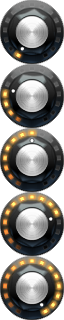
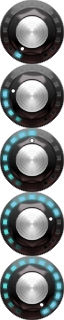
custom web-components + serveur web [1. cmd: npm install express // 2. cmd: node server.js // localhost:8082]

diff --git a/index.html b/index.html
@@ -29,7 +29,8 @@
 
 
     <div id="bcqd">
-      <div id="mainBackground" class="center">
+    
+    <div id="mainBackground" class="center">
 
         <div class="divPlayer">
 
@@ -58,7 +59,7 @@
   
               <div class="ggg2">
                       <div class="middlePlat1"> 
-                       <webaudio-slider src="img/vsliderbody.png" knobsrc="img/vsliderknob.png" basewidth="24" baseheight="128" knobwidth="24" knobheight="24" ditchLength="100" tooltip="Slider-L" min="0" max="4" step="0.01" value="1" id="speedSoundSlider"></webaudio-slider>
+                      <webaudio-knob id="speedSoundSlider" src="img/slider_knobman.png" sprites="30" min="0" max="4" step="0.01" value="1" width="50" height="128"></webaudio-knob>
                           <p class="textPg">Vitesse 1</p>
                       </div>
 
@@ -84,28 +85,29 @@
   <div class="divPlayerMd">
 
           <div class="divPlayerMpart1">
-                <webaudio-knob src="img/LittlePhatty.png" sprites="100" name="rangeInput" value="0" step="1" min="-40" max="30" id="trebEq" diameter="48"></webaudio-knob><p>Treble</p>
+                <webaudio-knob src="img/filtate_2.png" sprites="30" name="rangeInput" value="0" step="1" min="-40" max="30" id="trebEq" diameter="48"></webaudio-knob><p>Treble</p>
 
-                <webaudio-knob src="img/LittlePhatty.png" sprites="100" name="rangeInput" value="0" step="1" min="-40" max="30" id="medEq" diameter="48"></webaudio-knob><p>Medium</p>
+                <webaudio-knob src="img/filtate_2.png" sprites="30" name="rangeInput" value="0" step="1" min="-40" max="30" id="medEq" diameter="48"></webaudio-knob><p>Medium</p>
                 
-                <webaudio-knob src="img/LittlePhatty.png" sprites="100" name="rangeInput" value="0" step="1" min="-40" max="30" id="lowEq" diameter="48"></webaudio-knob><p>Basse</p>
-               
-                <webaudio-slider src="img/vsliderbody.png" knobsrc="img/vsliderknob.png" basewidth="24" baseheight="128" knobwidth="24" knobheight="24" ditchLength="100" tooltip="Slider-L" id="gainSlider" name="rangeInput" min="0" max="4" step="0.01" value="2"></webaudio-slider>
+                <webaudio-knob src="img/filtate_2.png" sprites="30" name="rangeInput" value="0" step="1" min="-40" max="30" id="lowEq" diameter="48"></webaudio-knob><p>Basse</p>
+                
+                <webaudio-knob id="gainSlider" src="img/slider_knobman2.png" sprites="30" min="0" max="4" step="0.01" value="2" width="24" height="100"></webaudio-knob>
           </div>
 
           <div class="divPlayerMpart1">
-                <webaudio-knob src="img/LittlePhatty.png" sprites="100" name="rangeInput" value="0" step="1" min="-40" max="30" id="trebEq2" diameter="48"></webaudio-knob><p>Treble</p>
+                <webaudio-knob src="img/filtate_2.png" sprites="30" name="rangeInput" value="0" step="1" min="-40" max="30" id="trebEq2" diameter="48"></webaudio-knob><p>Treble</p>
 
-                <webaudio-knob src="img/LittlePhatty.png" sprites="100" name="rangeInput" value="0" step="1" min="-40" max="30" id="medEq2" diameter="48"></webaudio-knob><p>Medium</p>   
+                <webaudio-knob src="img/filtate_2.png" sprites="30" name="rangeInput" value="0" step="1" min="-40" max="30" id="medEq2" diameter="48"></webaudio-knob><p>Medium</p>   
 
-                <webaudio-knob src="img/LittlePhatty.png" sprites="100" name="rangeInput" value="0" step="1" min="-40" max="30" id="lowEq2" diameter="48"></webaudio-knob><p>Basse</p>   
+                <webaudio-knob src="img/filtate_2.png" sprites="30" name="rangeInput" value="0" step="1" min="-40" max="30" id="lowEq2" diameter="48"></webaudio-knob><p>Basse</p>   
 
-                <webaudio-slider src="img/vsliderbody.png" knobsrc="img/vsliderknob.png" basewidth="24" baseheight="128" knobwidth="24" knobheight="24" ditchLength="100" tooltip="Slider-L" id="gainSlider2" name="rangeInput" min="0" max="4" step="0.01" value="2"></webaudio-slider>
+                <webaudio-knob id="gainSlider2" src="img/slider_knobman2.png" sprites="30" min="0" max="4" step="0.01" value="2" width="24" height="100"></webaudio-knob>
           </div>
 
 
           <div class="divCrossF" style="vertical-align:bottom;">
-               <webaudio-slider id="crossFader" direction="horz" src="img/hsliderbody.png" knobsrc="img/hsliderknob.png" name="crossFader" min="0" max="4" step="0.01" value="2"></webaudi-slider>
+               <webaudio-knob id="crossFader" src="img/Slider45.png" sprites="4" name="crossFader" min="0" max="4" step="0.01" value="2" width="128" height="32"><webaudio-knob>
+
           </div>
 
   </div>
@@ -141,11 +143,9 @@
                       </div>
 
                       <div class="middlePlat4" style="vertical-align:top;"> 
-                        <webaudio-slider src="img/vsliderbody.png" knobsrc="img/vsliderknob.png" basewidth="24" baseheight="128" knobwidth="24" knobheight="24" ditchLength="100" tooltip="Slider-L" min="0" max="4" step="0.01" value="1" id="speedSoundSlider2"></webaudio-slider>
+                        <webaudio-knob id="speedSoundSlider2" src="img/slider_knobman.png" sprites="30" min="0" max="4" step="0.01" value="1" width="50" height="128"></webaudio-knob>
                           <p class="textPd">Vitesse 2</p>
                       </div>
-
-
               </div>
 
               <audio id="audioPlayer2" ontimeupdate="update2(this)" crossorigin="anonymous">
@@ -176,16 +176,16 @@
          <div class="divPlayerMdPy">
                <div class="divPlayerMpart1">
                  <div>Effects</div> 
-                 <webaudio-knob src="img/LittlePhatty.png" sprites="100" name="rangeInput" min="300" max="5000" step="100" value="5000" id="filterLP"  diameter="48"></webaudio-knob><p>Low/Pass</p>    
+                 <webaudio-knob src="img/knobman-lumen.png" sprites="30" min="300" max="5000" step="100" value="5000" id="filterLP" diameter="48"></webaudio-knob><p>Low/Pass</p>    
 
-                 <webaudio-knob src="img/LittlePhatty.png" sprites="100" name="rangeInput" min="300" max="5000" step="100" value="5000" id="filterLP"  diameter="48"></webaudio-knob><p>Low/Pass</p>                
+                 <webaudio-knob src="img/knobman-lumen.png" sprites="30" name="rangeInput" min="300" max="5000" step="100" value="5000" id="filterLP" diameter="48"></webaudio-knob><p>Low/Pass</p>                
               </div>
 
               <div class="divPlayerMpart1">
                 <div>Effects</div> 
-                 <webaudio-knob src="img/LittlePhatty.png" sprites="100" name="rangeInput" min="300" max="5000" step="100" value="5000" id="filterLP2" diameter="48"></webaudio-knob><p>Low/Pass</p>        
+                 <webaudio-knob src="img/knobman-lumen.png" sprites="30" name="rangeInput" min="300" max="5000" step="100" value="5000" id="filterLP2" diameter="48"></webaudio-knob><p>Low/Pass</p>        
 
-                 <webaudio-knob src="img/LittlePhatty.png" sprites="100" name="rangeInput" min="300" max="5000" step="100" value="5000" id="filterLP2" diameter="48"></webaudio-knob><p>Low/Pass</p>      
+                 <webaudio-knob src="img/knobman-lumen.png" sprites="30" name="rangeInput" min="300" max="5000" step="100" value="5000" id="filterLP2" diameter="48"></webaudio-knob><p>Low/Pass</p>      
               </div>
           </div>
 
@@ -194,14 +194,18 @@
             <span id="playList2"></span>
          </div>
 
+    
     </div>
+</div>
 
+<div id="mainBackground" class="center">
+
+    <div id="footer">
+        BOCCARA DJ - DJ SOFTWARE // EDITION 2016 - Begyn Mélissa, Boccara David, Elsaesser Luc, Micallef David, Wallart Sébastien. Collection Yolo Records
+    </div> 
 
 </div>
 
- <div id="footer">
-        BOCCARA DJ - DJ SOFTWARE // EDITION 2016 - Begyn Mélissa, Boccara David, Elsaesser Luc, Micallef David, Wallart Sébastien. Collection Yolo Records
-    </div> 
     <script src="js/audioplayer.js"></script>  
 
   <script type="text/javascript">

diff --git a/css/player.css b/css/player.css
@@ -57,6 +57,9 @@ body {
 #mainBackground {
   /*width: 1550px;*/
   font-family: "Thunder Lord";
+  background-color: #2B2B2B;
+ 
+  min-width: 1500px;
 }
 .center {
   margin-left: auto;
@@ -81,7 +84,7 @@ body {
   vertical-align: top;
   height: 420px;
   border: 1.5px solid #1e6662; 
-  background-color: #2B2B2B;
+  background-color: #252525;
   border-radius: 2px;
   margin: 0.2em;
   padding: 7px;
@@ -93,7 +96,7 @@ body {
   vertical-align: top;
   height: 300px;
   border: 1.5px solid #1e6662; 
-  background-color: #2B2B2B;
+  background-color: #252525;
   border-radius: 2px;
   margin: 0.2em;
   padding: 7px;
@@ -112,8 +115,6 @@ body {
 }
 
 .divPlayerMpart1 {
-  border: 1.5px solid #1e6662; 
-  /*background-color: green;*/
   margin: 0.2em;
   display: inline-table;
   width: 110px;
@@ -142,7 +143,8 @@ div.upload input {
 
 .topDivpl {
   height: 60px;
-  background-color: #1e6662;
+  background-color: #3797a3;
+  /* #1e6662 */
   margin-bottom: 0.2em;
 }
 
@@ -156,9 +158,10 @@ div.upload input {
 }
 
 #currentSong, #currentSong2 {
-/*  padding: 1em;
+  /*padding: 1em;
   background-color: red;
   width: 70px;*/
+  padding-right: 0.3em;
 }
 
 .ggg {
@@ -251,8 +254,7 @@ progress::-webkit-progress-value {
 .middlePlat1 {
   width: 175px;
   display: inline-block;
-  text-align: left;
-  padding-left: 2em;
+ 
 }
 
 .middlePlat2 {
@@ -276,14 +278,6 @@ progress::-webkit-progress-value {
   text-align: center;
   display: inline-block;
   vertical-align: center;
-}
-
-.textPg {
-  padding-left: 2.5em;
-}
-
-.textPd {
-  padding-right: 2.5em;
 }
 
 #platine {
